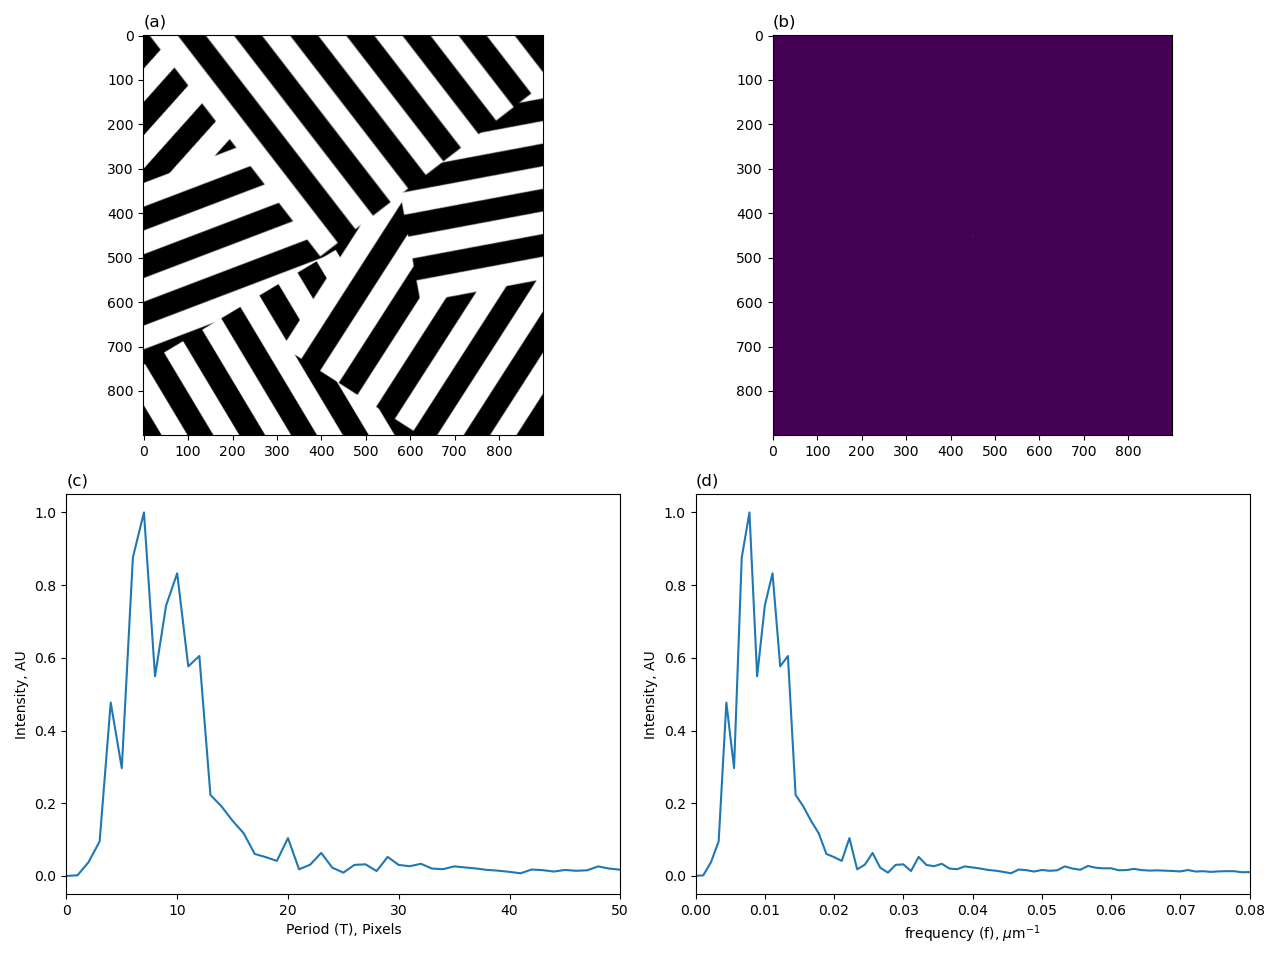
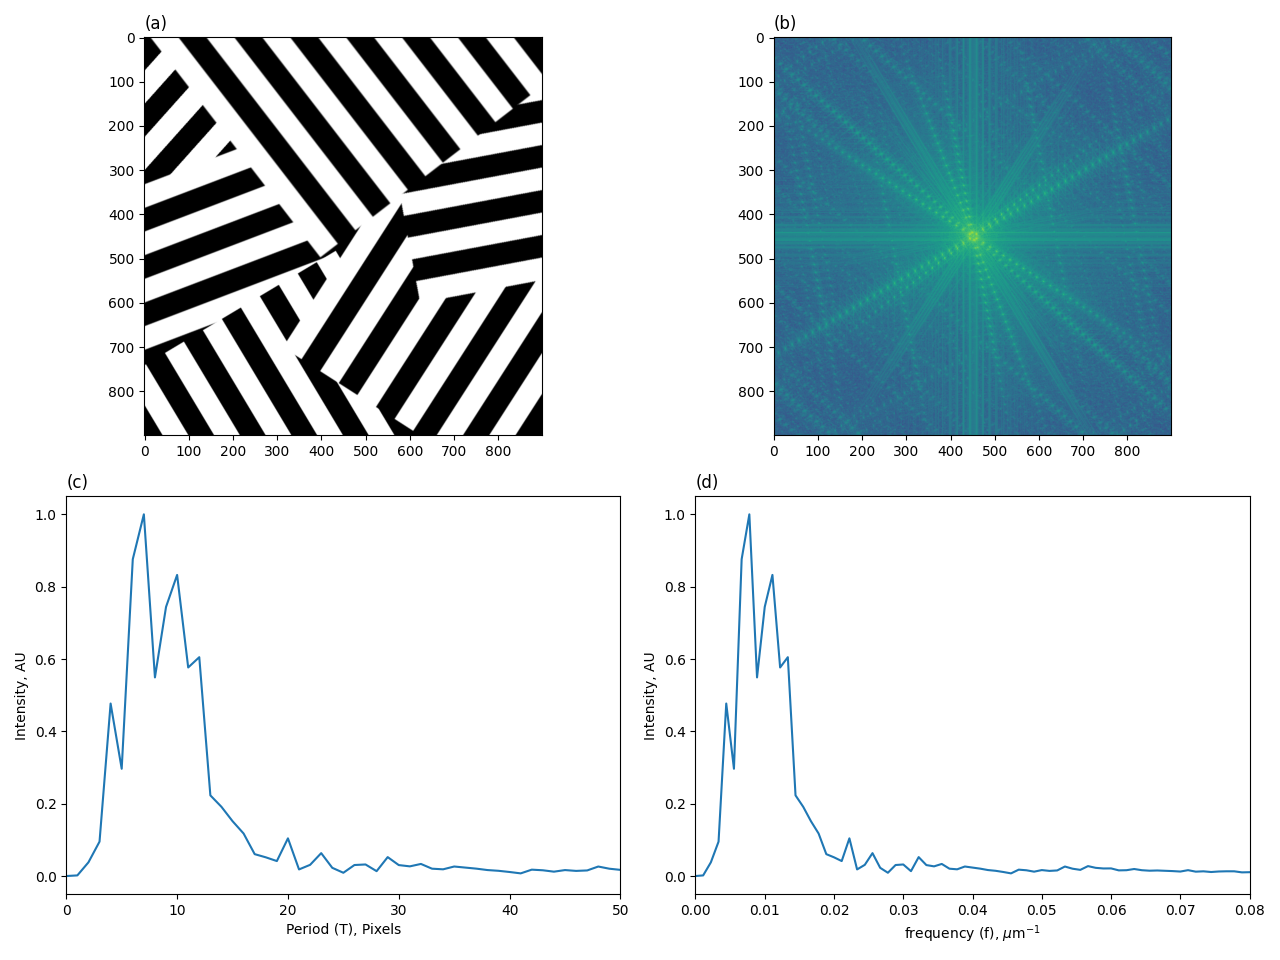
changed plot panel (b) to np.log(psd2) to visualize better

diff --git a/test_cases/synthetic_images/tessellation/src/tessellation.py b/test_cases/synthetic_images/tessellation/src/tessellation.py
@@ -62,7 +62,7 @@ axs[0,0].imshow(img_tessellation, cmap='gray')
 axs[0,0].set_title("(a)", loc='left')
 # axs[0,0].set_title("Original image")
 
-axs[0,1].imshow(psd2D)
+axs[0,1].imshow(np.log(psd2D))
 axs[0,1].set_title("(b)", loc='left')
 # axs[0,1].set_title("Center-shifted 2D Power Spectral Density")
 
